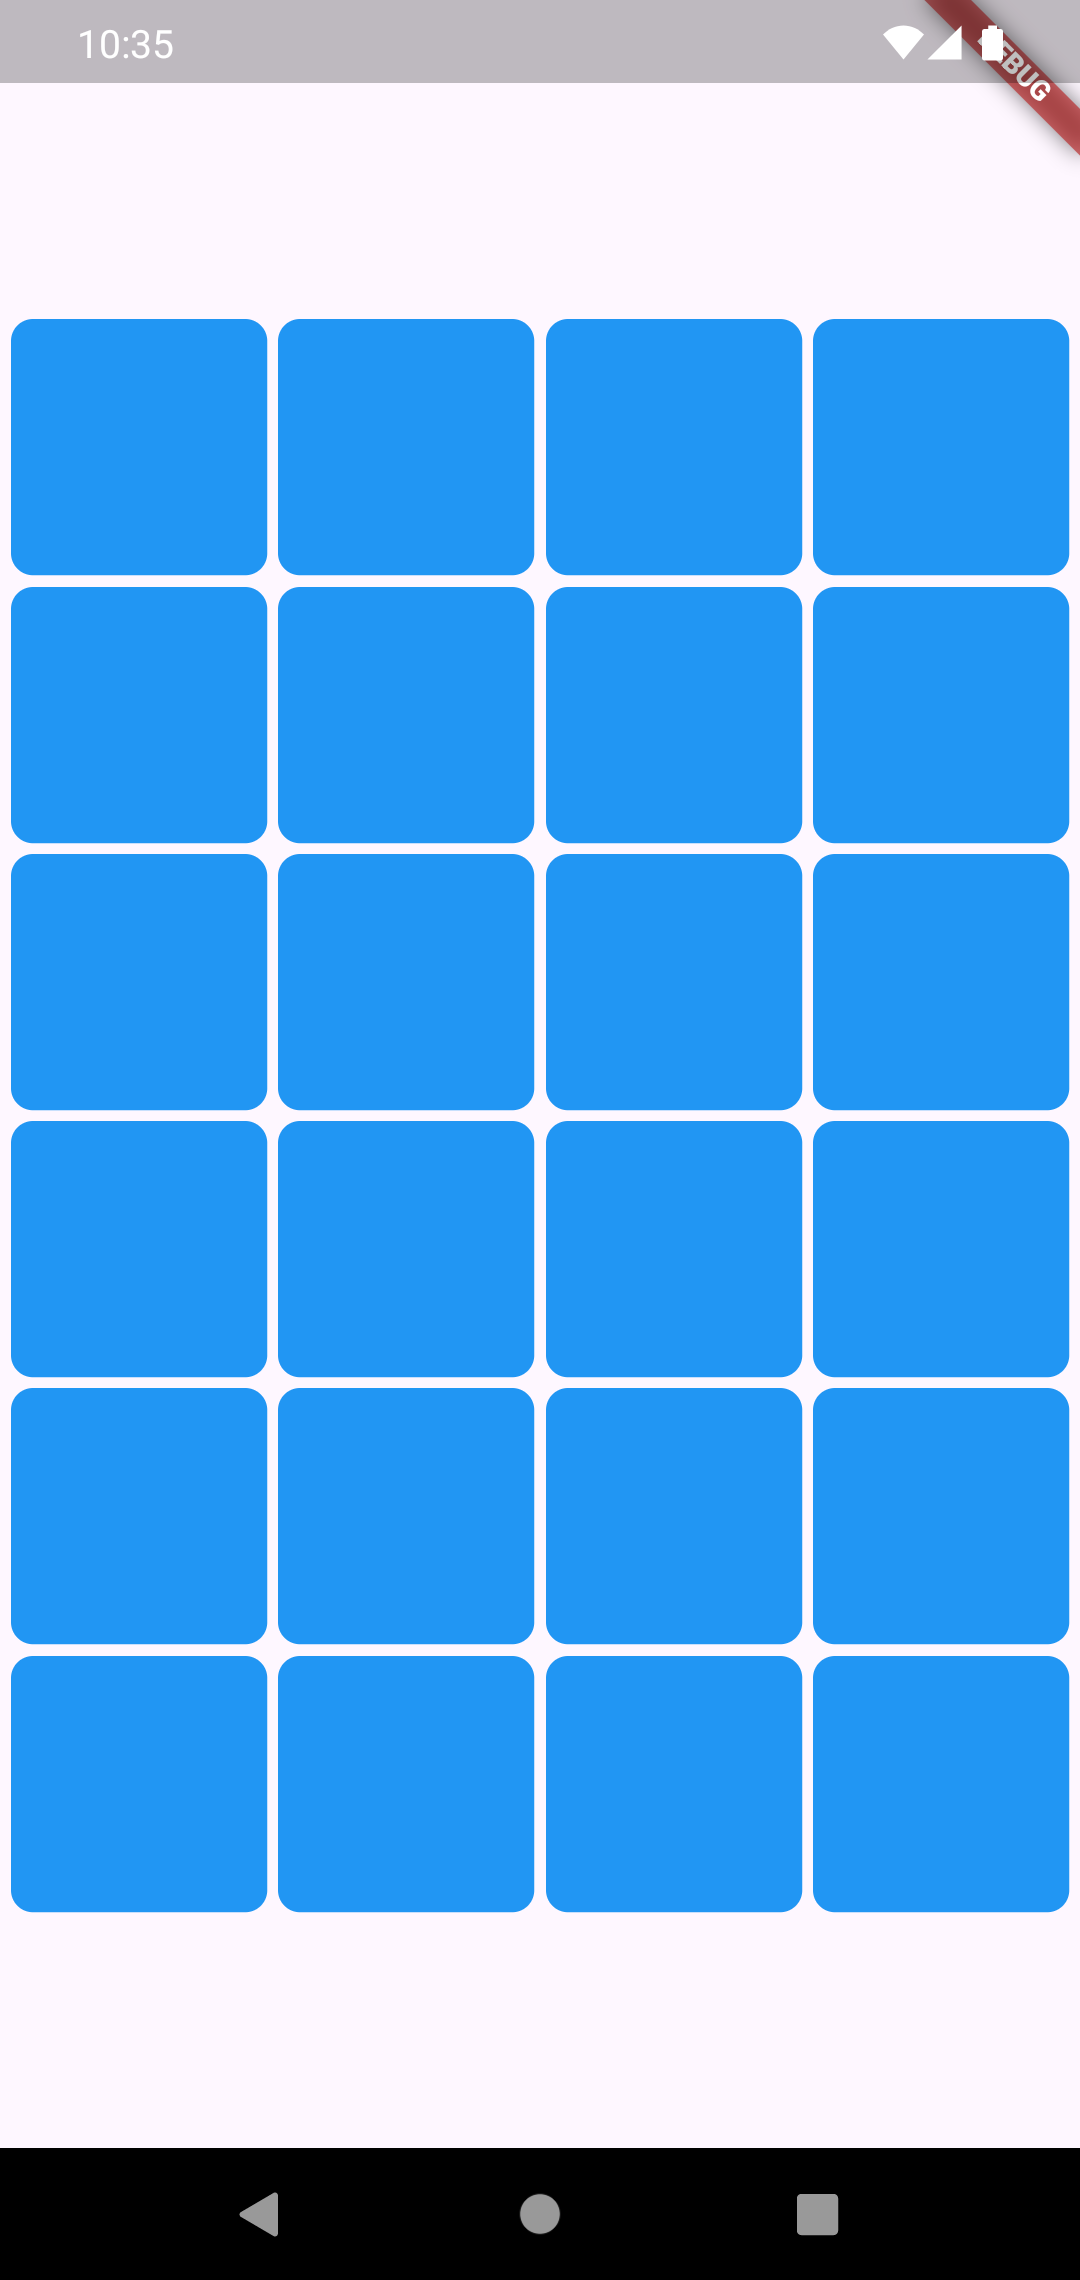
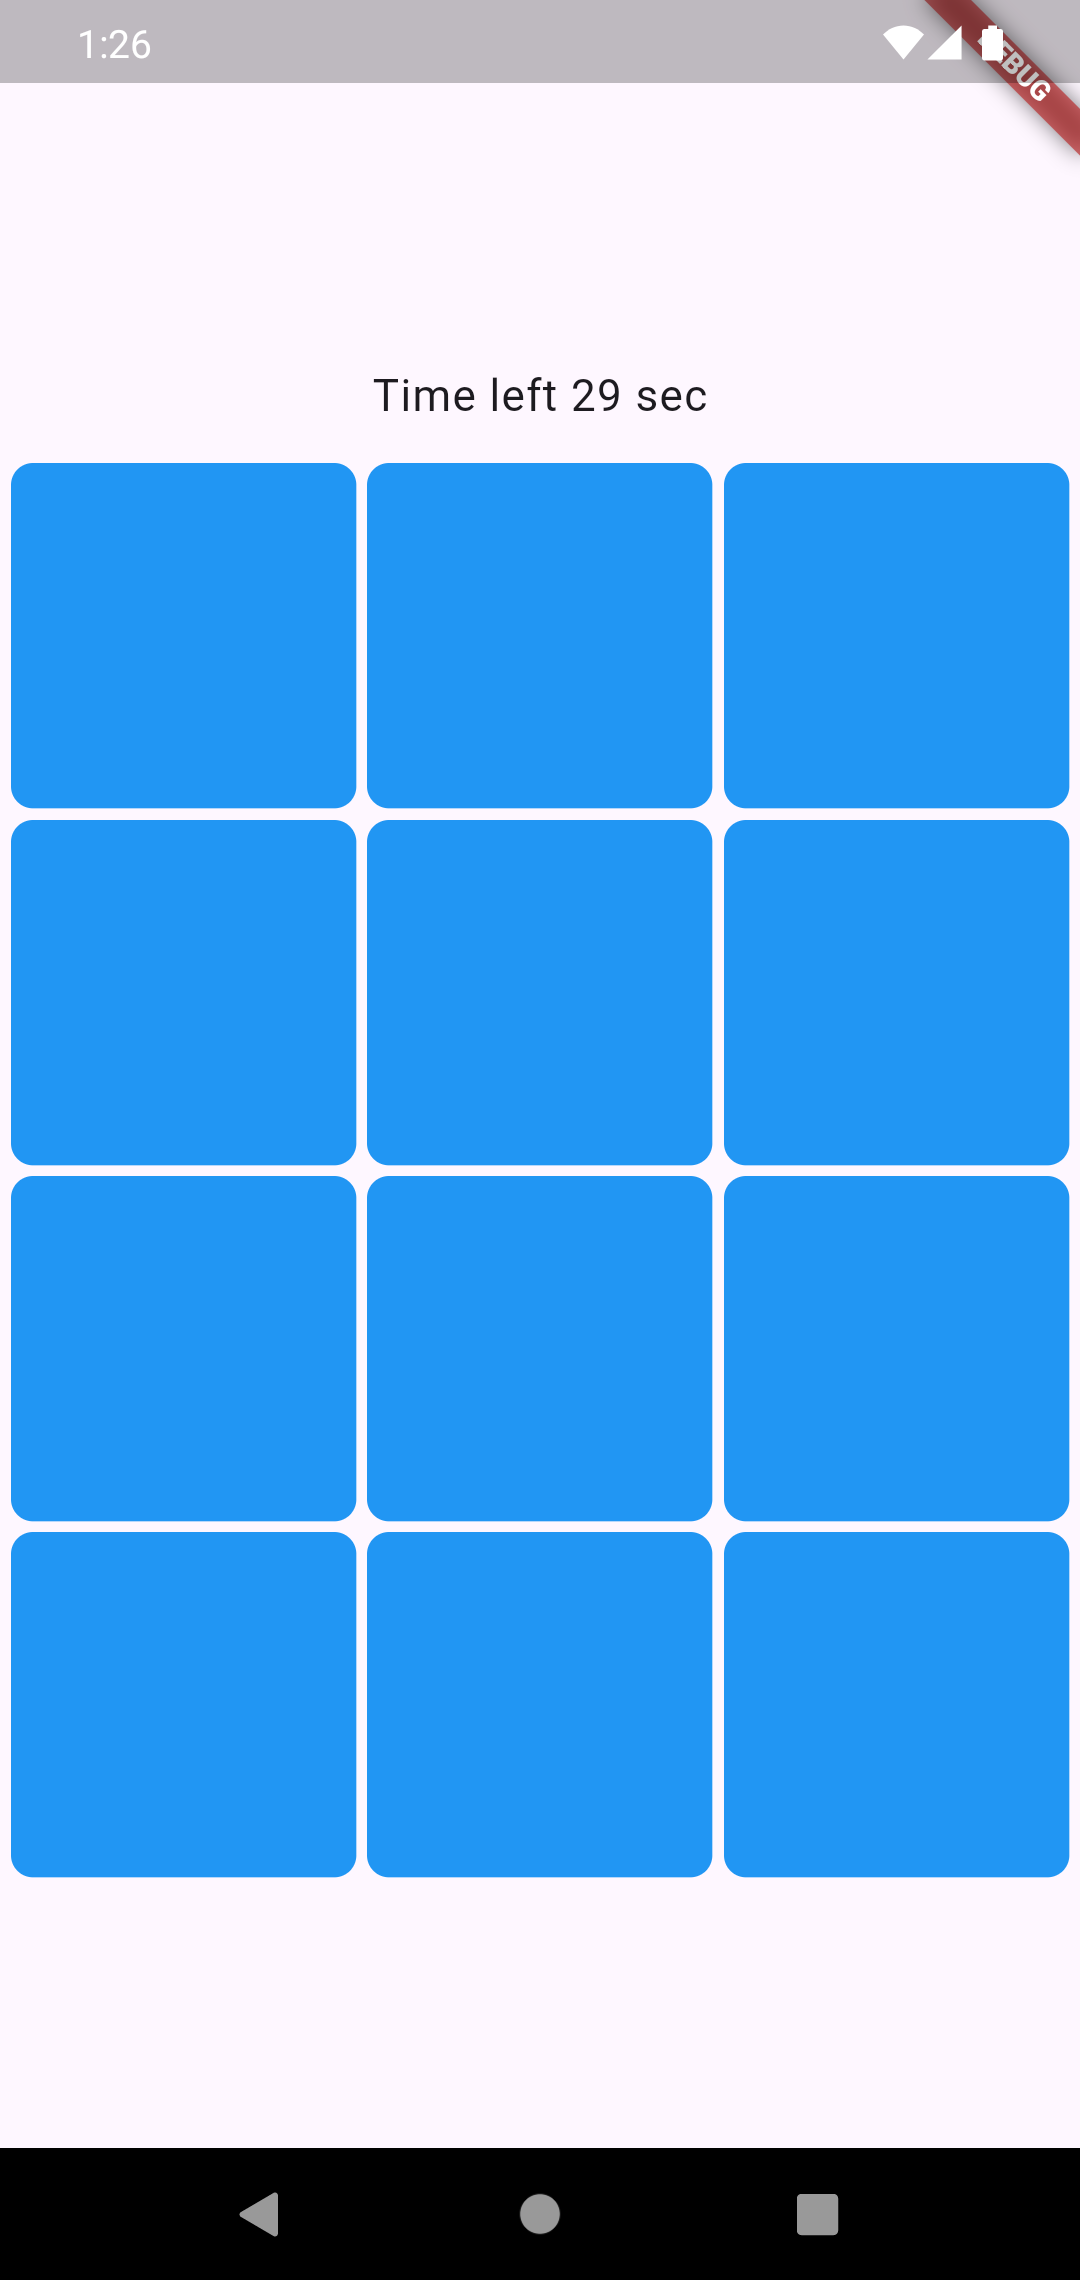
update screenshots

Changed region(s): [[0.0, 0.1246, 1.0, 0.8408], [0.0917, 0.0, 0.1528, 0.0311]]

diff --git a/lib/pages/home.dart b/lib/pages/home.dart
@@ -34,7 +34,7 @@ class _HomePageState extends State<HomePage> {
 
   int matchCount = 0;
 
-  int countdown = 0;
+  int countdown = 30;
 
   int score = 0;
 
@@ -83,7 +83,7 @@ class _HomePageState extends State<HomePage> {
       setState(() {
         log('${value.tick}');
 
-        countdown = 30 - value.tick;
+        countdown--;
         log('count down = $countdown');
 
         if (countdown == 0) {
@@ -96,7 +96,6 @@ class _HomePageState extends State<HomePage> {
   stopGame() {
     timer?.cancel();
     timer = null;
-    countdown = 30;
     log('stop game');
     setState(() {
       for (int i = 0; i < total; i++) {
@@ -109,8 +108,11 @@ class _HomePageState extends State<HomePage> {
       barrierDismissible: false,
       builder: (context) {
         return AlertDialog(
-          title: const Text('Your score'),
-          content: Text('${(score)}'),
+          title: Center(child: const Text('Your score')),
+          content: Container(
+              height: 100,
+              child: Center(child: Text('${(score + countdown) * 10}'))),
+          contentTextStyle: Theme.of(context).textTheme.displayLarge!,
           actionsAlignment: MainAxisAlignment.center,
           actions: [
             FilledButton(

diff --git a/README.md b/README.md
@@ -4,5 +4,5 @@ Flip and Match, find and match image game, made with Flutter.
 
 ## Screenshots
 
-| ![](/screenshots/screenshot01.png) | ![](/screenshots/screenshot02.png) |
-| ---------------------------------- | ---------------------------------- |
+| ![](/screenshots/Screenshot01.png) | ![](/screenshots/Screenshot02.png) | ![](/screenshots/Screenshot03.png) |
+| ---------------------------------- | ---------------------------------- | ---------------------------------- |
